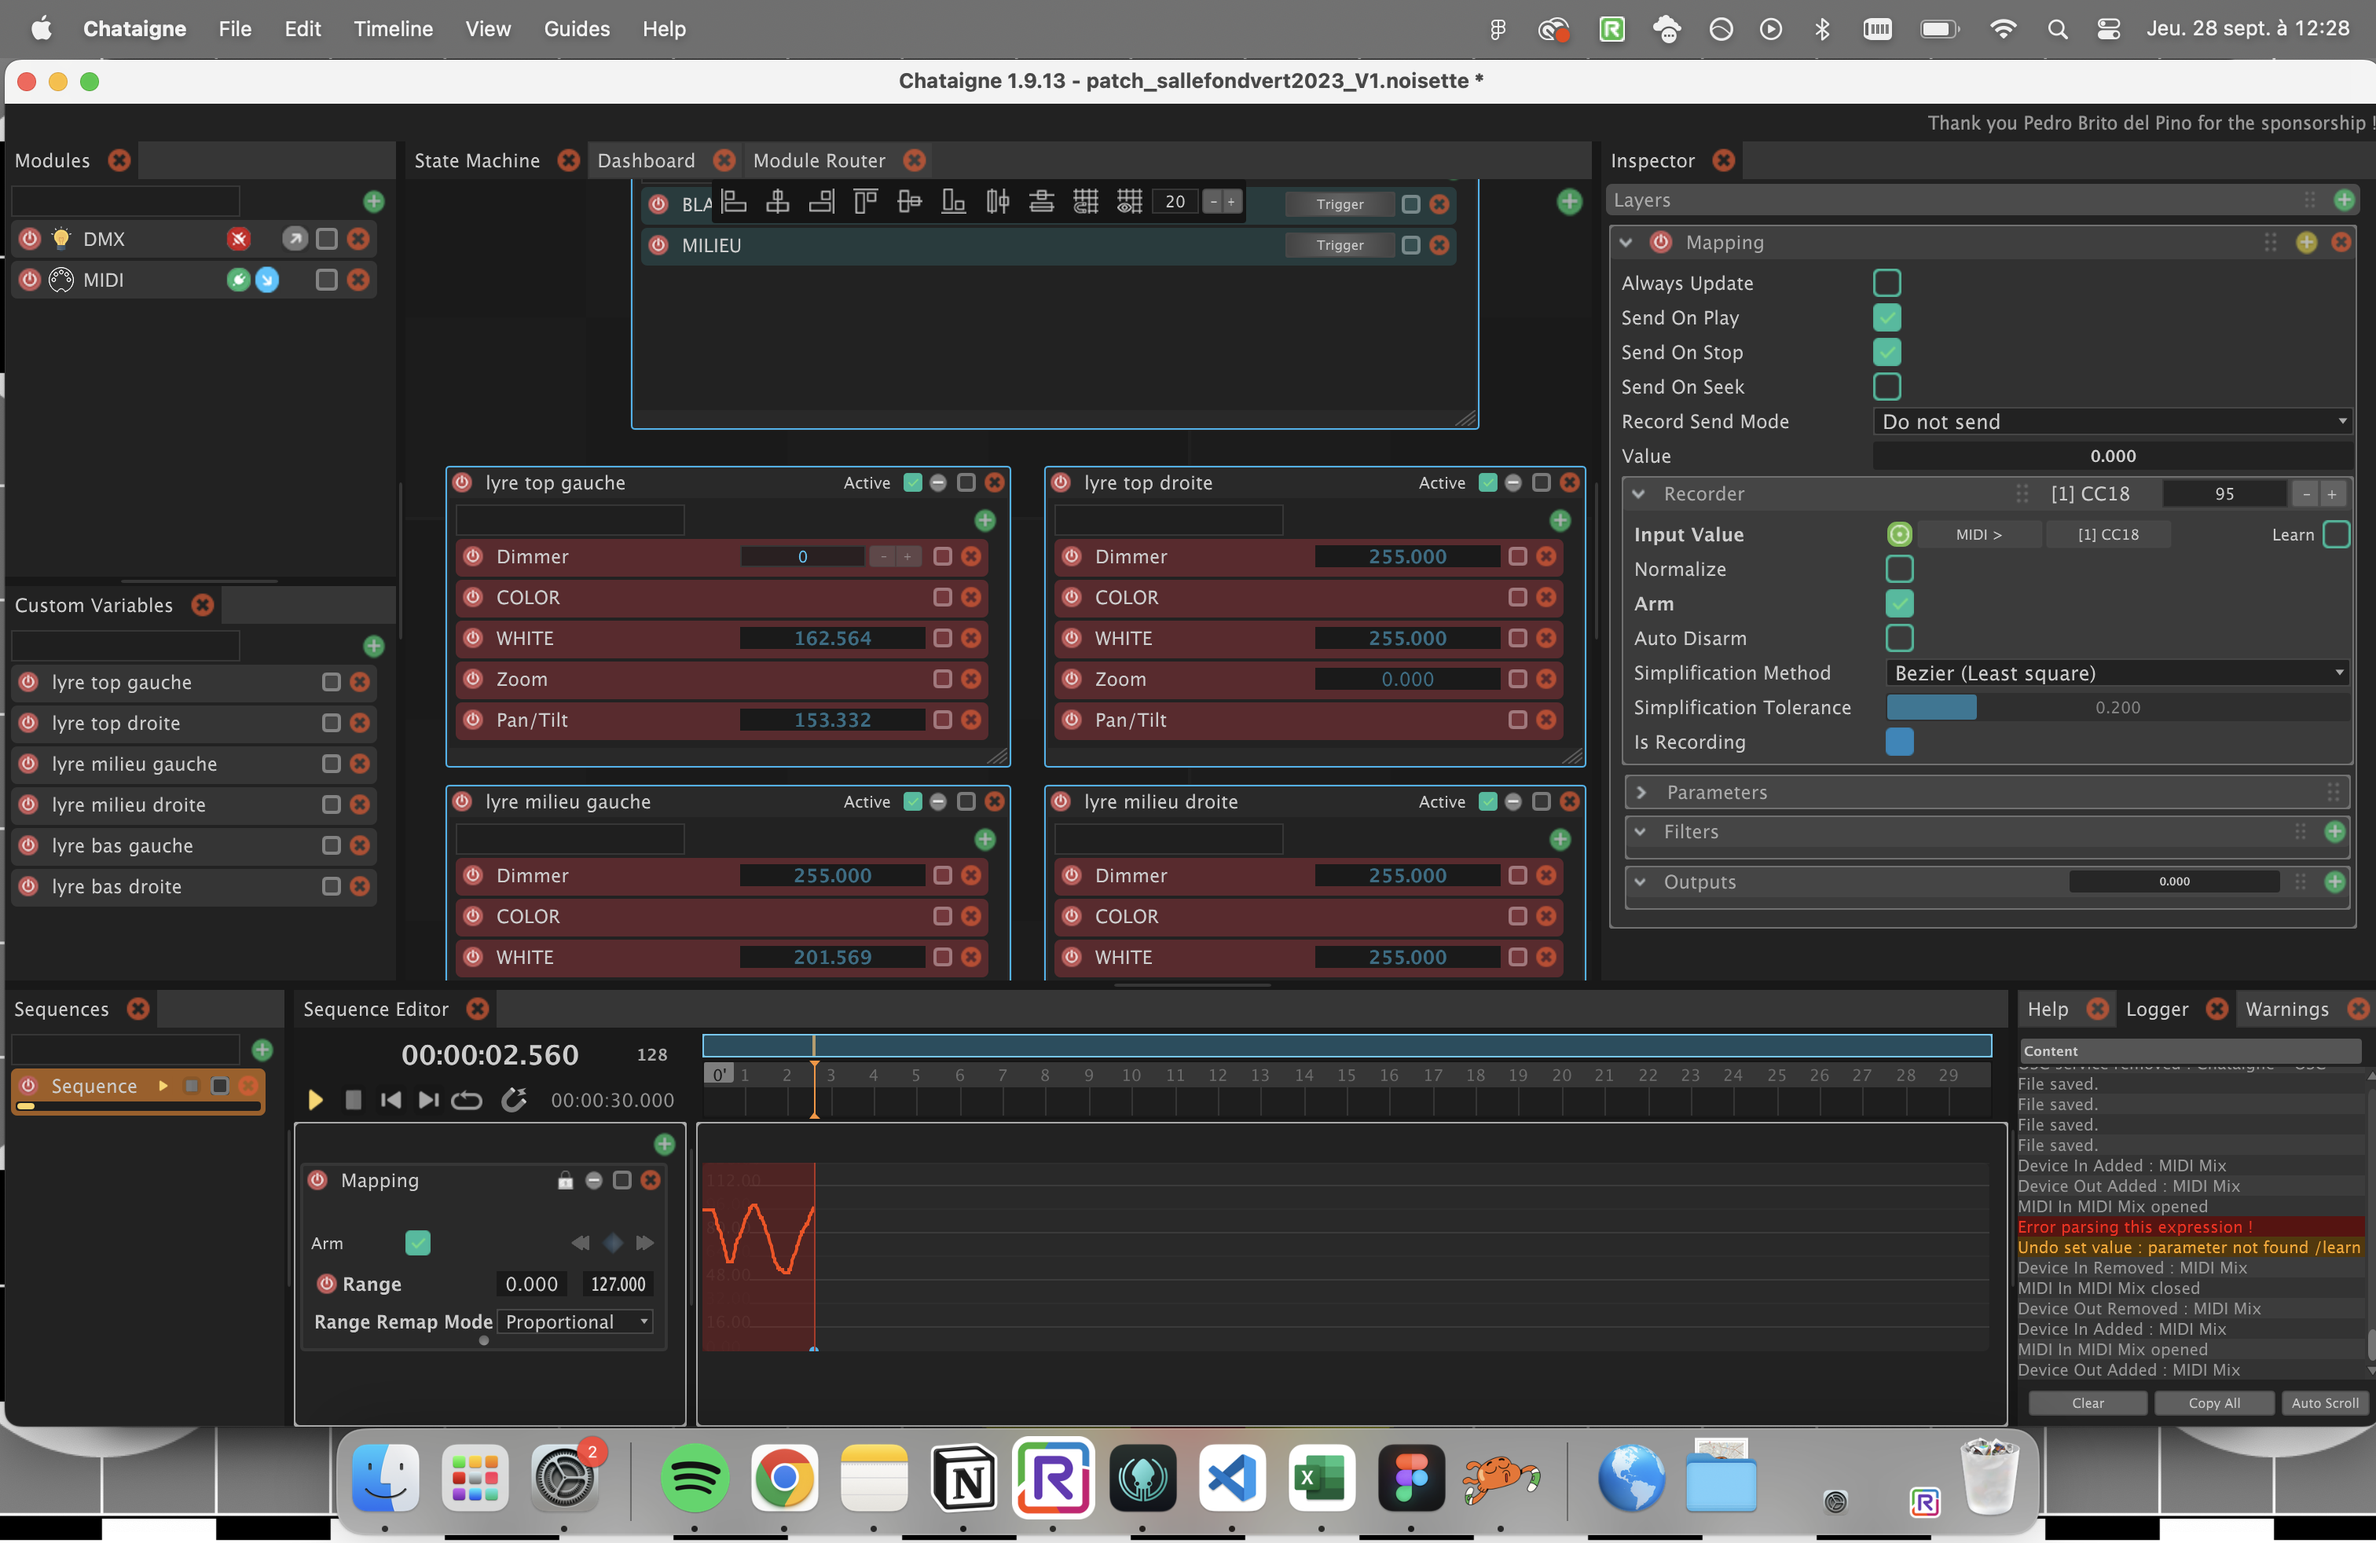
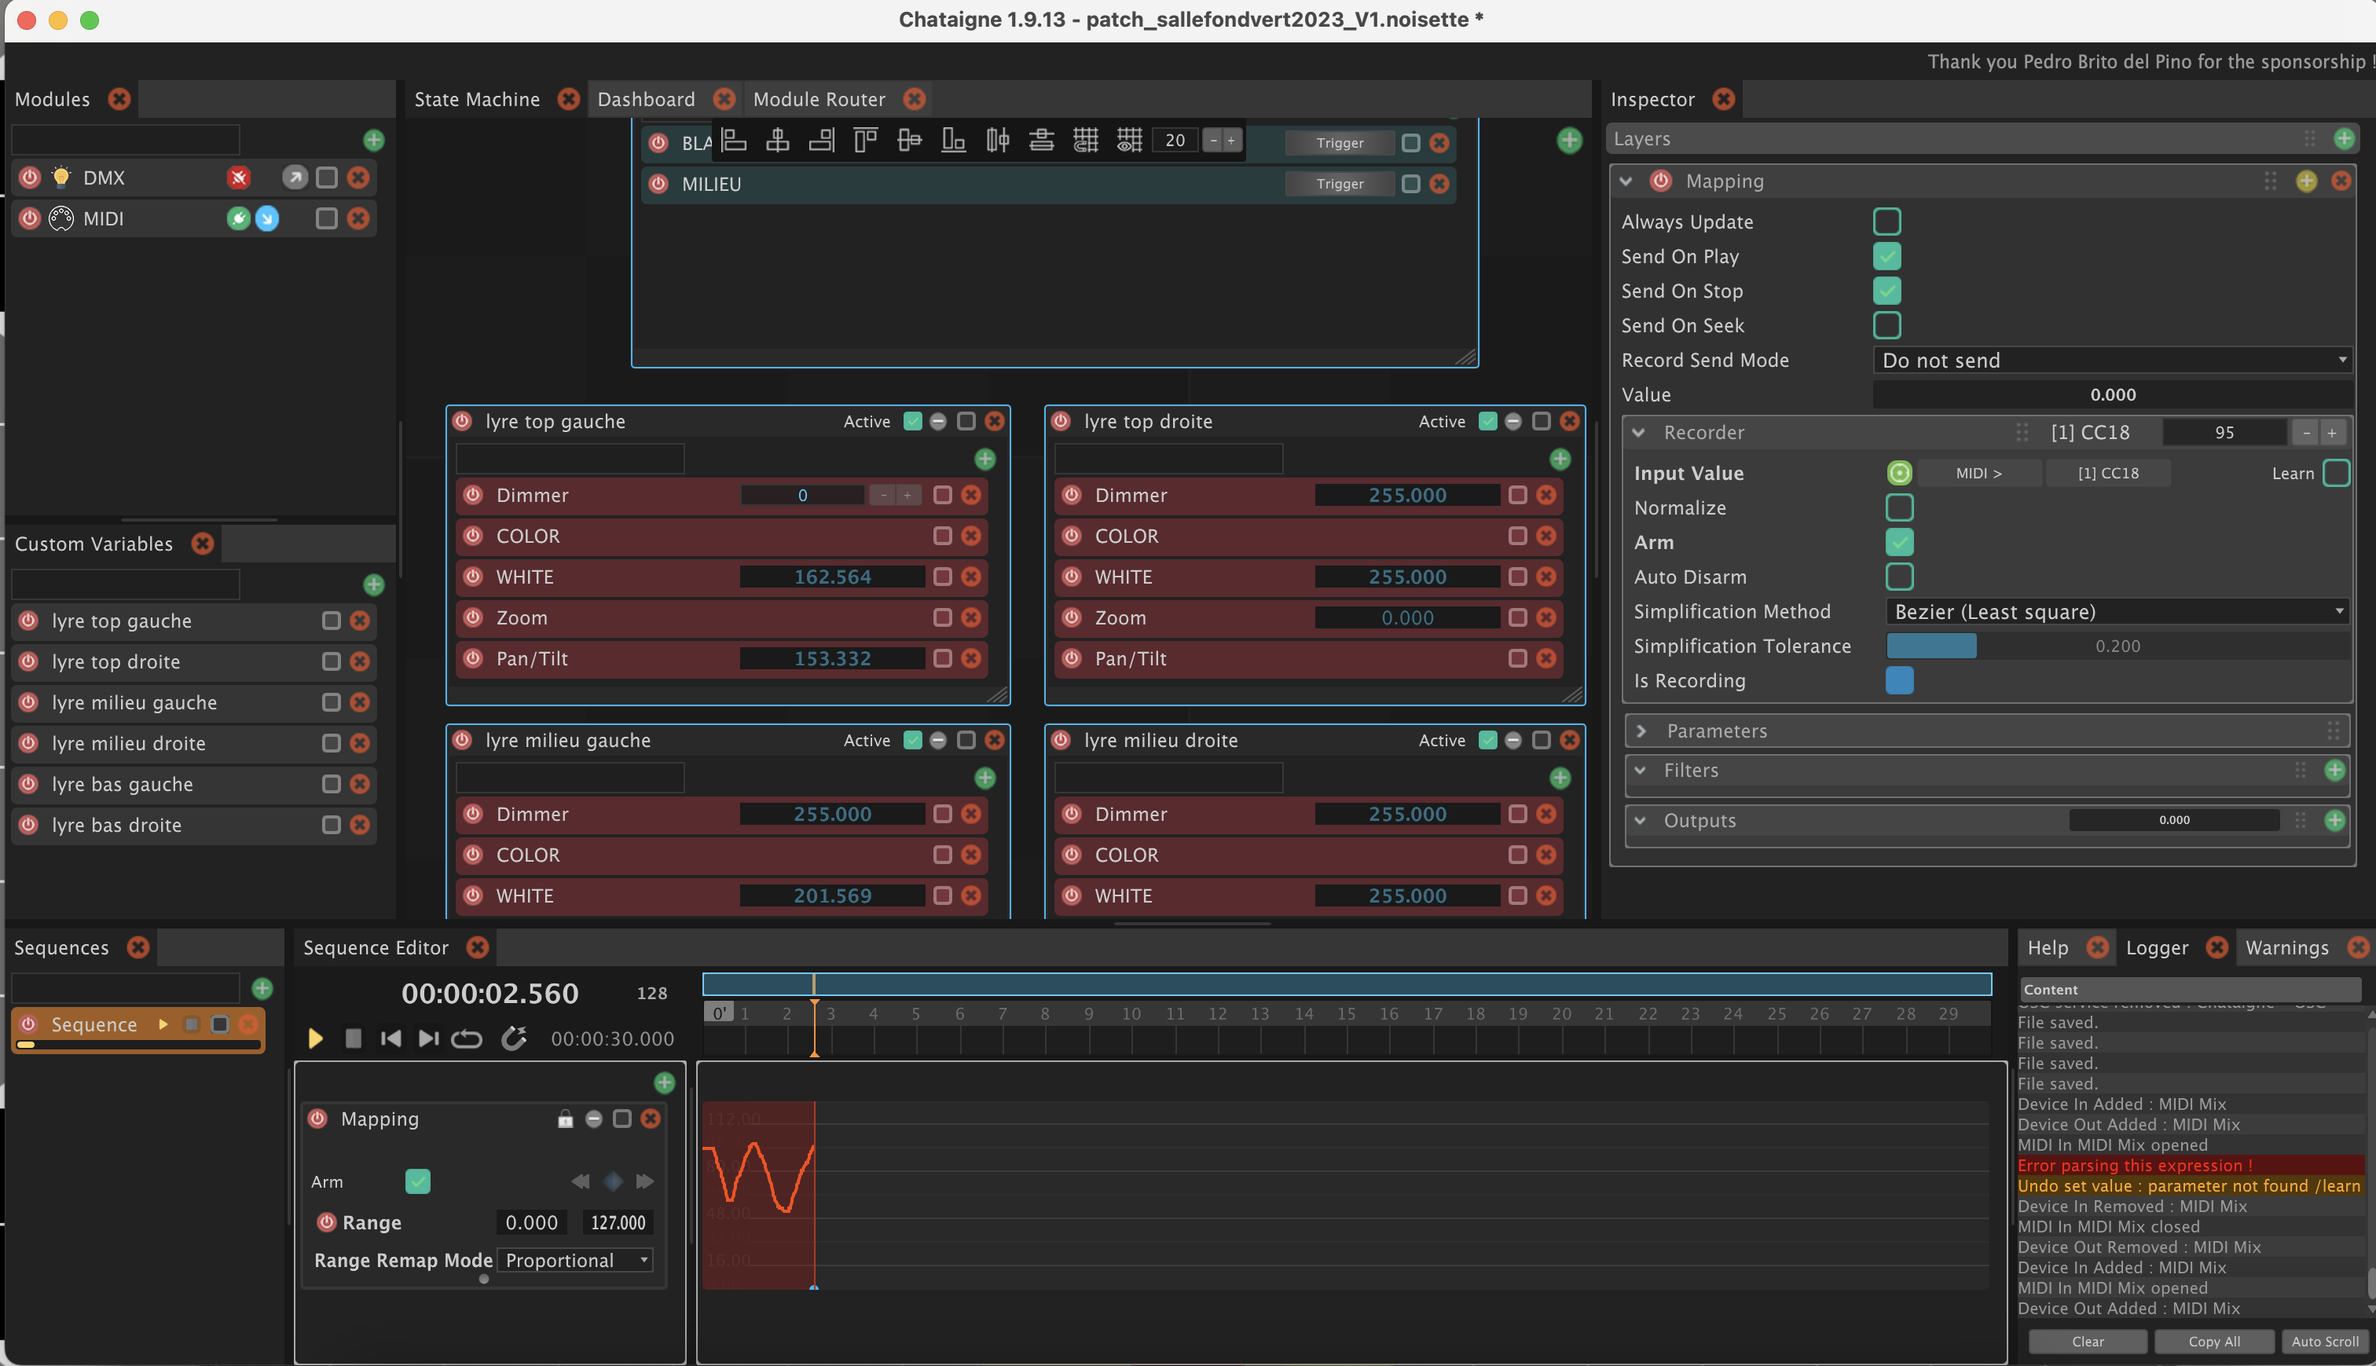
update10

diff --git a/README.md b/README.md
@@ -29,7 +29,7 @@ Click on the gree ➕ bouton in `Sequence Editor` part to create the first autom
 You can choose the automation type :
 - `Trigger` will trigger events with no transition, by sending a value at a given moment on the timeline. It can be use for example to turn off all the fixtures at the same time.
 - `Mapping` allows you to create a curve based animation. It can be used for example to modify the brightness following a curve or to slowly rotate a fixture.
-- `Mapping 2D` is like Mapping, but in 2D, and allows you to create a 2D path based animation. More infos [here](https://bkuperberg.gitbook.io/chataigne-docs/the-time-machine-sequences/mapping-layer).
+- `Mapping 2D` is like Mapping, but in 2D, and allows you to create a 2D path based animation. More infos [here](https://benkuper.notion.site/Mapping-Layer-4eeb78cae8174bf2a0d400bb936550b0).
 - `Audio` allows you to sync sound files to the sequence, but you need a sound card. It can be used for example to have sounds playing at the same time as animations.
 - `Color` allows you to animation colors over time. It can be used for example to create colors interpolations of the fixtures.
 - `Sequences` allows you to play multiple sequences at the same time or on the same timeline. You can for example create multiples animations sequences and assemble them on the timeline.
@@ -165,7 +165,7 @@ When `Auto Add` is checked, and `Is Connected` is active, we can see the values 
 
 ![Plan de fire'](./images/screen14.png)
 
-### Adding the 
+### Adding the control
 
 To pair a midi value with a DMX channel or a parameter, you need to click on the mapping of the parameter. Here, the dimmer of the PAR WW fixture :
 
@@ -195,4 +195,6 @@ We set the input range to 0 and 127, and the output range to 0 and 255.
 
 ## To go further
 
-The [intro tuto to Chataigne (FR)](https://github.com/LucieMrc/Chataigne_2spi).
+- Chataigne [official documentation](https://benkuper.notion.site/The-Amazing-Chataigne-Documentation-079bd5a0b7e648bbbfe34c3c869a3985)
+
+ - The [intro tuto to Chataigne (FR)](https://github.com/LucieMrc/Chataigne_2spi).
